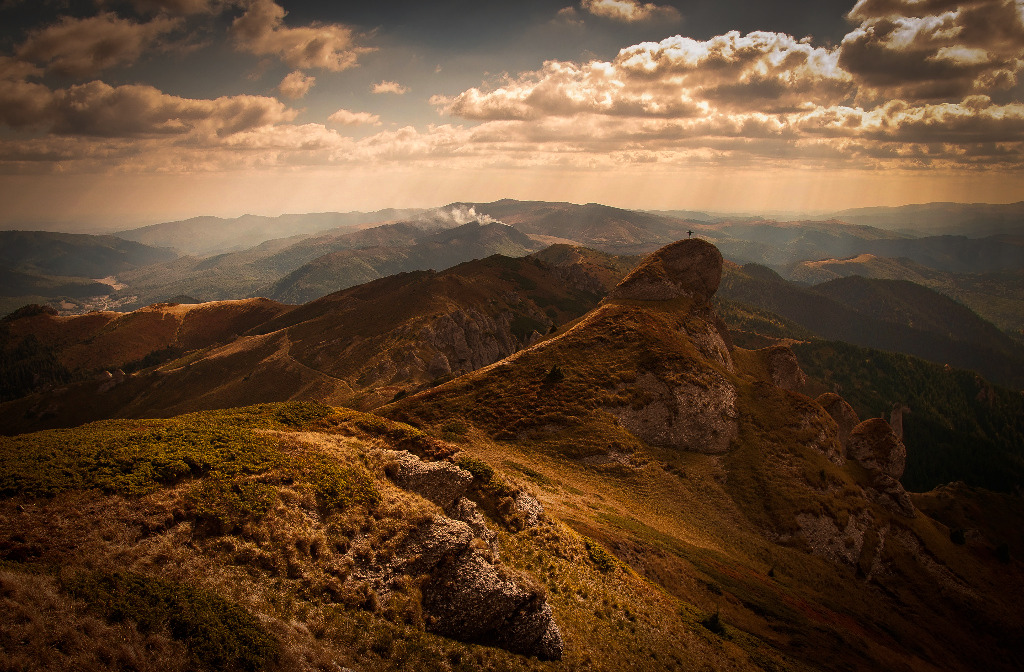
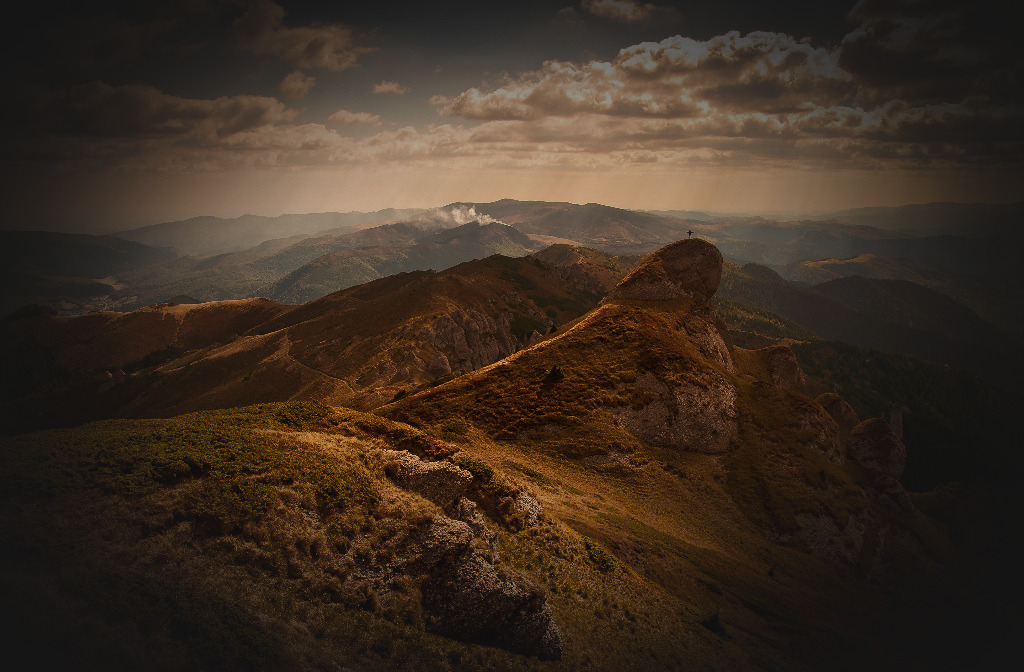
Change showcase image to more darker one

diff --git a/components/main_content/MyProjects.js b/components/main_content/MyProjects.js
@@ -12,7 +12,7 @@ export default class MyProjects extends Component {
         description:
           "Play a game about a lonely knight that teleported to an island on which there are lots of bandits.",
         image: "/screenshots/game.png",
-        stack: "JavaScript,\t Phaser, Matter.js,  Webpack, Tiled, Babbel",
+        stack: "JavaScript, Phaser, Matter.js,  Webpack, Tiled, Babbel",
         live: "https://ecstatic-rosalind-eeae5f.netlify.app/",
         repo: "https://github.com/MkrtichSargsyan/RPG-game-js",
       },

diff --git a/.next/static/chunks/webpack.js b/.next/static/chunks/webpack.js
@@ -113,7 +113,7 @@
 /******/
 /******/ 	var hotApplyOnUpdate = true;
 /******/ 	// eslint-disable-next-line no-unused-vars
-/******/ 	var hotCurrentHash = "7e73ca6683d2e955985f";
+/******/ 	var hotCurrentHash = "470dba784e90b6140605";
 /******/ 	var hotRequestTimeout = 10000;
 /******/ 	var hotCurrentModuleData = {};
 /******/ 	var hotCurrentChildModule;

diff --git a/components/main_content/Showcase.js b/components/main_content/Showcase.js
@@ -10,7 +10,7 @@ function Showcase() {
           Hello. I'm
           <strong className={styles.white}> Mike,</strong>
           <br />
-          A Full Stack Web Developer
+          A Full-Stack Web Developer
         </h2>
         <p>based in Armenia, Yerevan</p>
 
